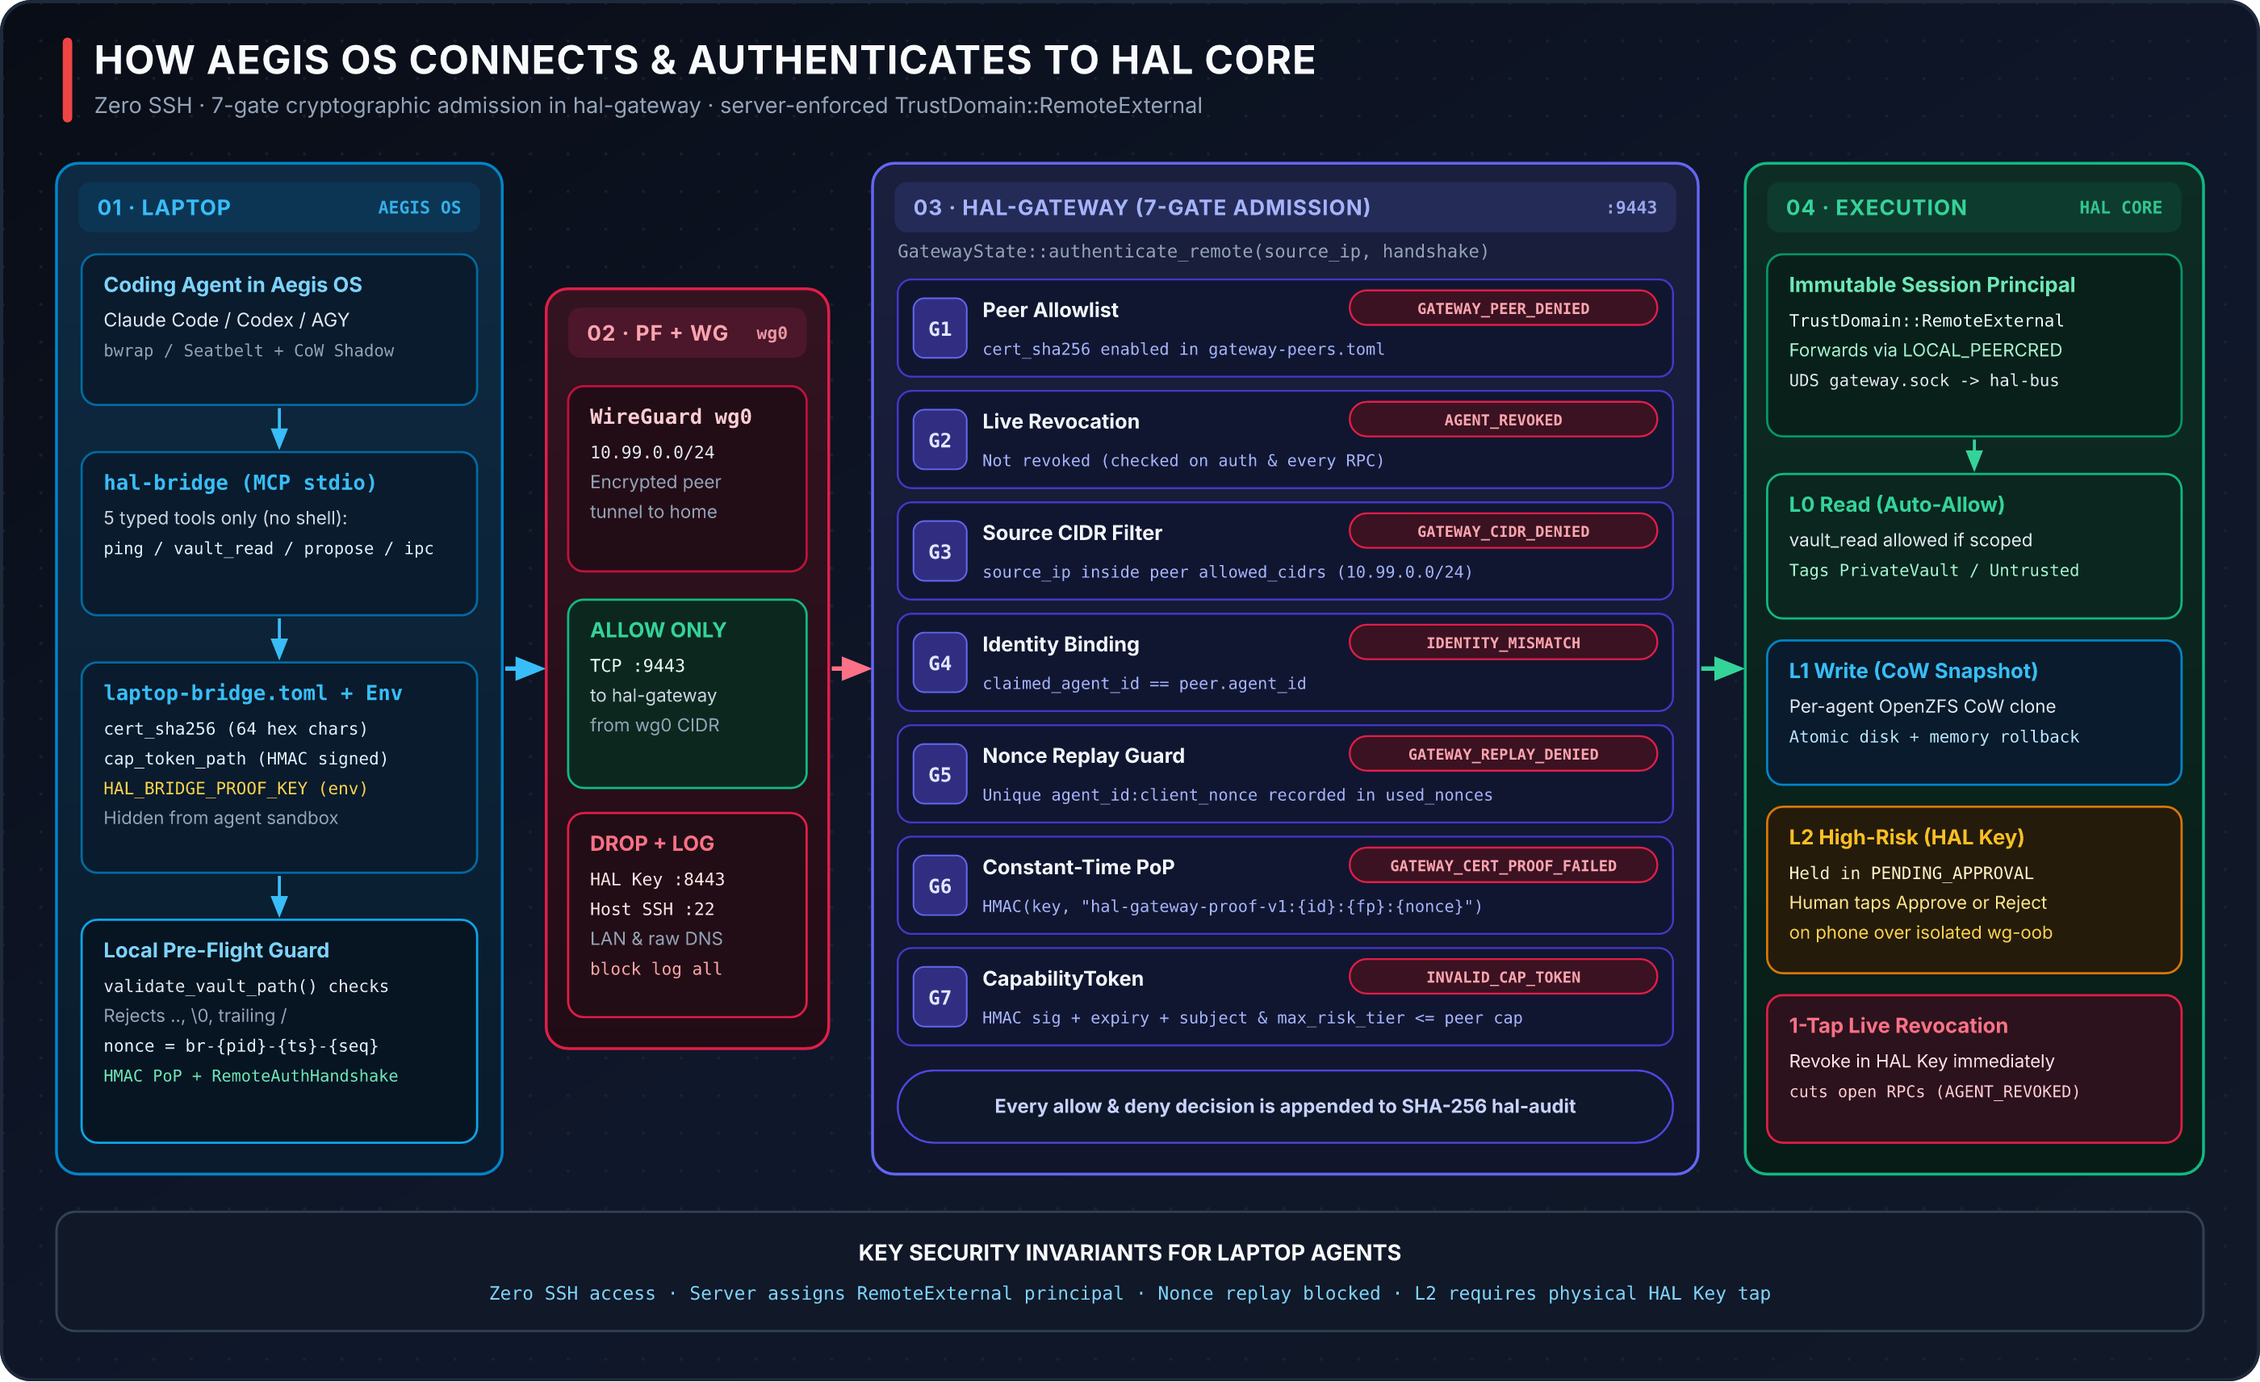
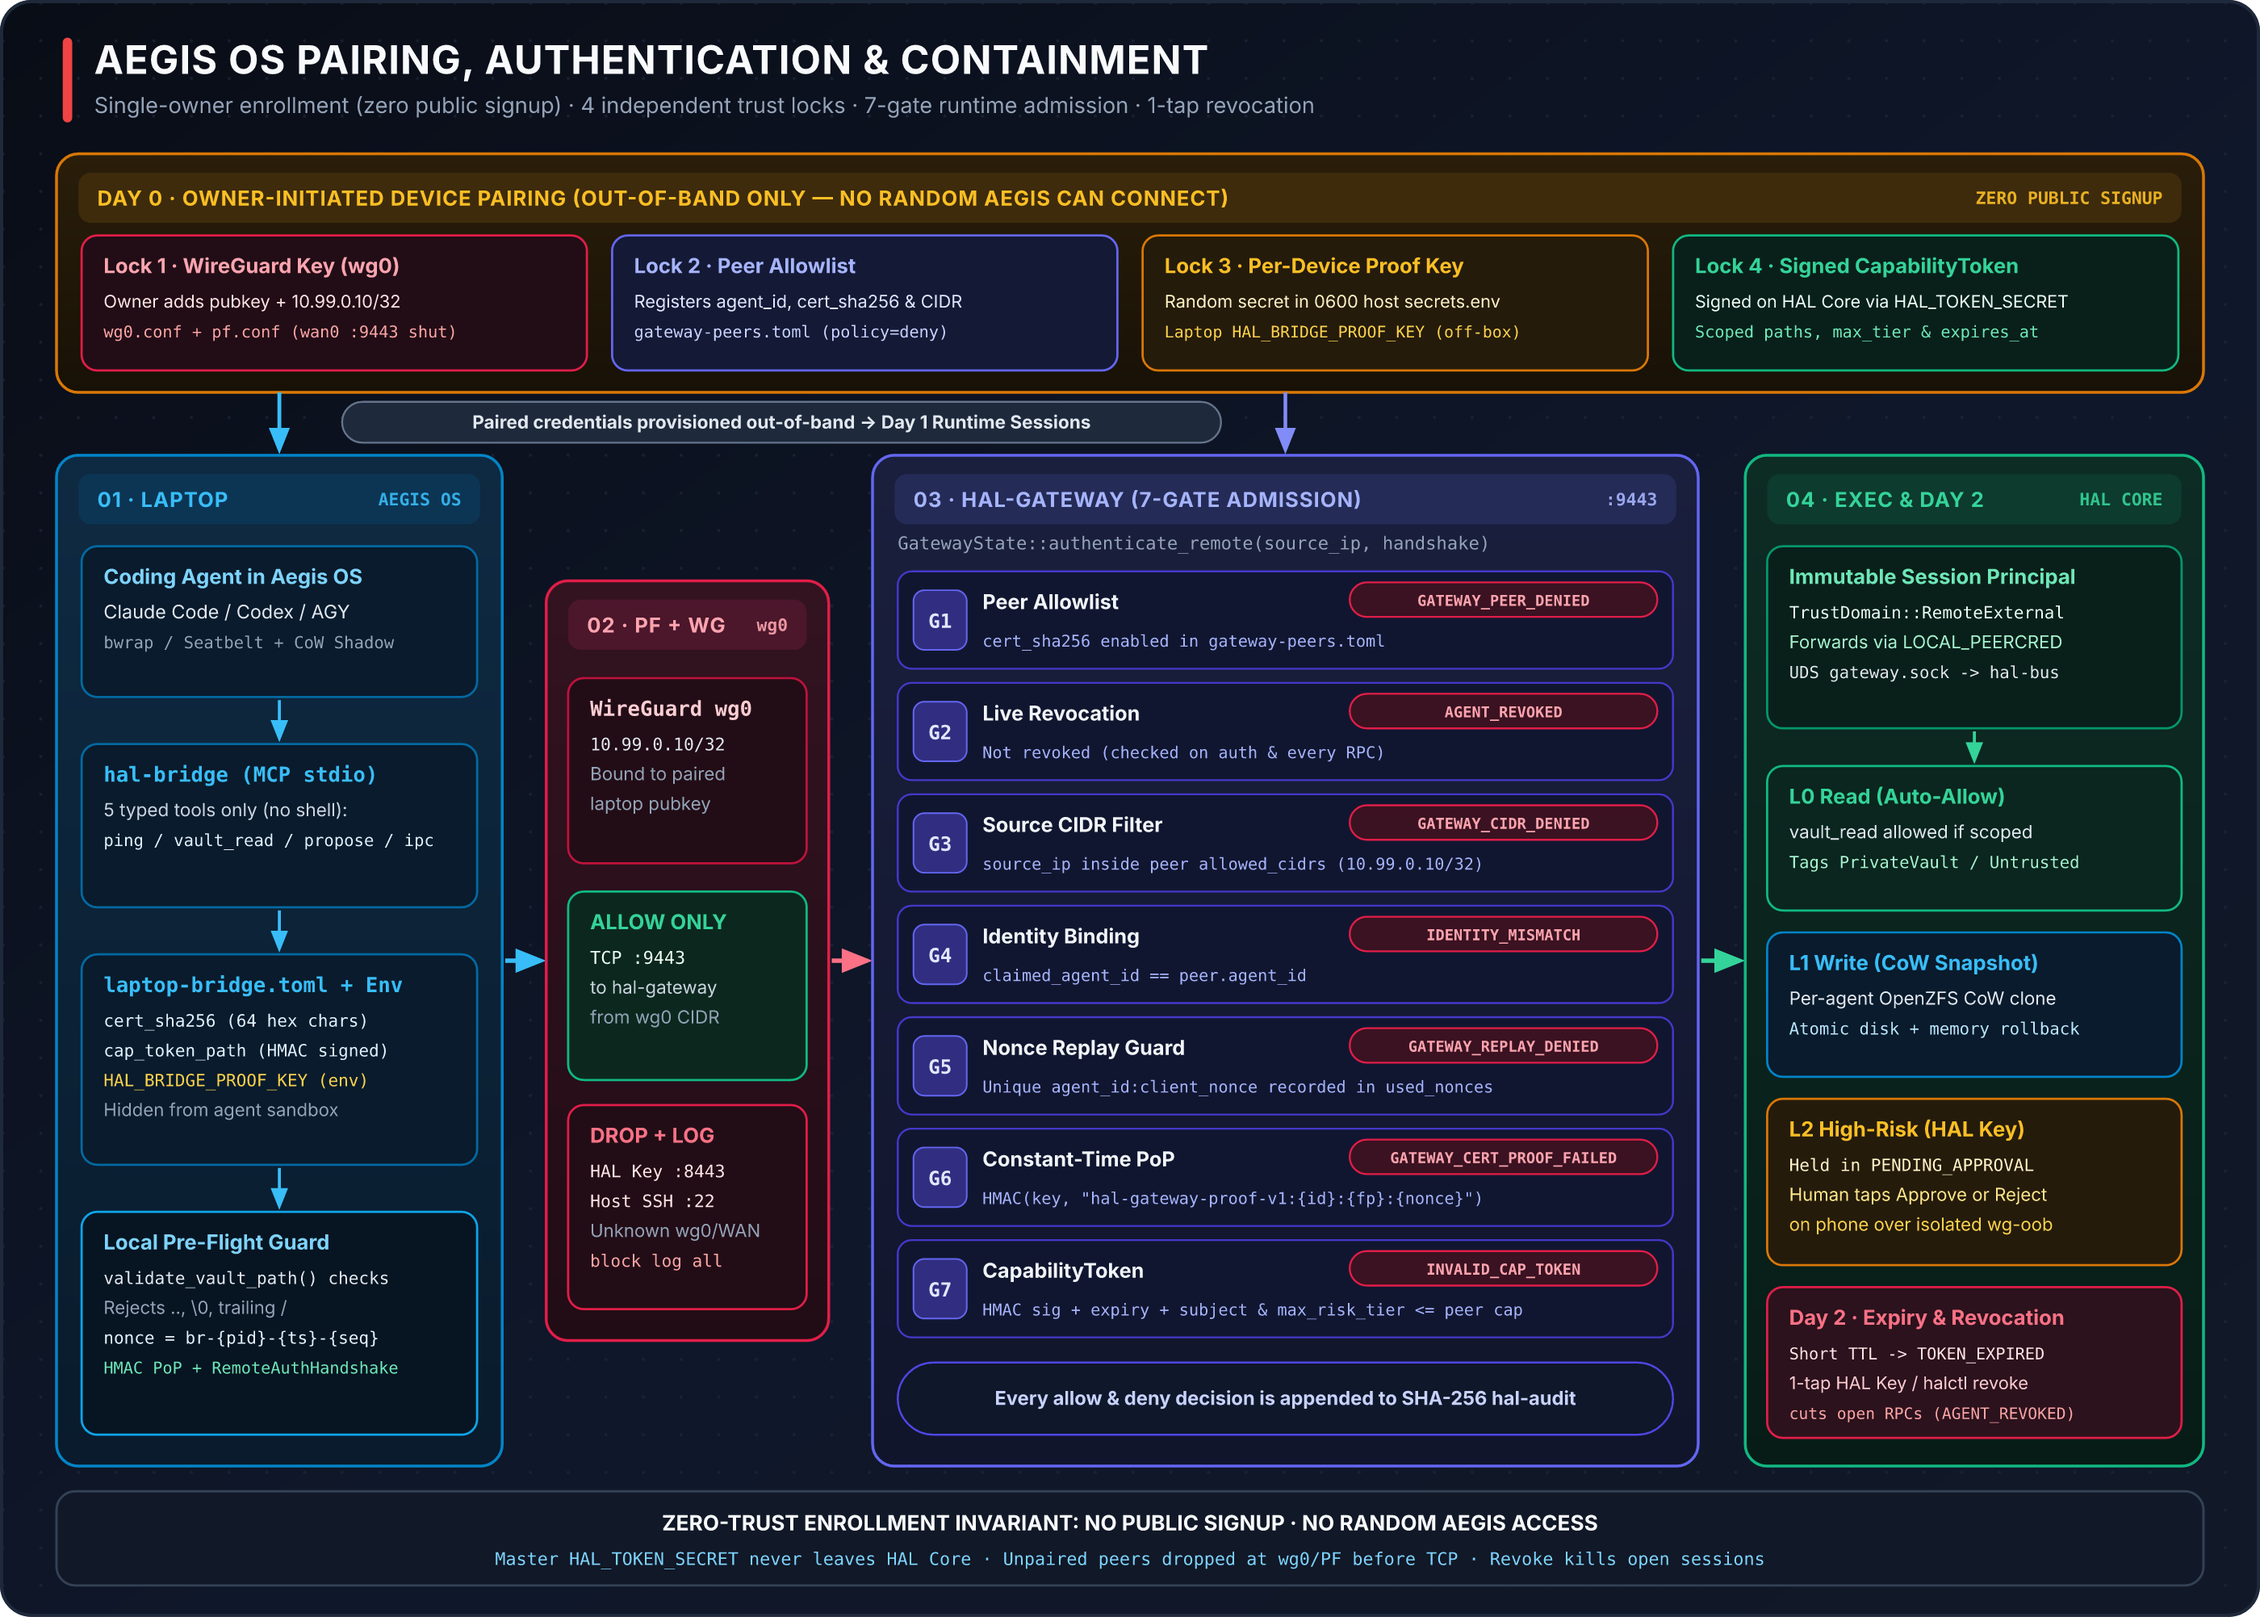
docs(readme): document Day-0/1/2 Aegis OS pairing, enrollment, and auth lifecycle with updated HD diagram

diff --git a/README.md b/README.md
@@ -24,7 +24,7 @@
   <a href="#why-hal-core">Why HAL Core?</a> ·
   <a href="#try-it-in-60-seconds">Try It in 60s</a> ·
   <a href="#how-it-works-the-tri-node-loop">How It Works</a> ·
-  <a href="#connecting-aegis-os-auth-and-security">Aegis OS Auth</a> ·
+  <a href="#connecting-aegis-os-pairing-auth-and-security">Aegis OS Pairing &amp; Auth</a> ·
   <a href="#how-hal-core-relates-to-freebsd-14">HAL Core &amp; FreeBSD 14</a> ·
   <a href="#security-guarantees">Security Guarantees</a> ·
   <a href="#documentation">Docs</a>
@@ -81,44 +81,54 @@ Instead of forcing one OS onto every device, each node owns one tightly scoped r
 
 ---
 
-## Connecting Aegis OS (Auth and Security)
+## Connecting Aegis OS: Pairing, Auth, and Security
+
+> **Not just any Aegis OS can connect to your HAL Core.** HAL Core is a single-owner personal fortress with **zero public signup, zero self-registration API, and zero inbound port on `wan0`**. A laptop can connect only after **you (the host owner)** explicitly pair it out-of-band.
 
 <p align="center">
-  <img src="./assets/diagram-aegis-auth-flow.png" alt="How Aegis OS Connects and Authenticates to HAL Core via hal-bridge and hal-gateway" width="100%" />
+  <img src="./assets/diagram-aegis-auth-flow.png" alt="Aegis OS Pairing, 7-Gate Authentication, and Containment Lifecycle in HAL Core" width="100%" />
 </p>
 
-### 1. How Aegis OS Connects (Zero SSH, 5 Typed MCP Tools)
+### Day 0 · Owner-Initiated Device Pairing (4 Independent Locks)
 
-On your laptop, the coding agent (`Antigravity`, `Claude Code`, or `Codex`) stays confined inside Aegis OS (`bwrap` / Seatbelt + CoW Shadow) and registers `hal-bridge` as a local stdio MCP server:
+To pair **your** laptop (`Aegis OS` + `hal-bridge`) with **your** `HAL Core`, you (the host owner over `mgmt0` / console / **HAL Key**) bind four independent trust locks—missing any one rejects the connection before it can touch an internal agent or vault:
+
+| Lock | Registered on HAL Core (Owner OOB) | Provisioned on Your Laptop (`hal-bridge`) | What It Stops |
+| :--- | :--- | :--- | :--- |
+| **1 · Network Tunnel (`wg0`)** | Owner adds laptop WireGuard public key + pinned tunnel IP (`10.99.0.10/32`) in [`wg-agent.conf.example`](./config/freebsd/wg-agent.conf.example). | Laptop holds the matching WireGuard private key & `HAL Core` server public key. | [`pf.conf`](./config/freebsd/pf.conf) enforces `block log all` and never exposes `:9443` on `wan0`; unpaired machines cannot even complete a WireGuard/TCP handshake. |
+| **2 · Peer Allowlist** | Owner registers `agent_id`, 64-hex `cert_sha256`, `allowed_cidrs` (`10.99.0.10/32`), and `max_risk_tier` in [`gateway-peers.toml`](./config/policy/gateway-peers.toml). | Written into `agent_id` & `cert_sha256` inside [`laptop-bridge.example.toml`](./config/bridge/laptop-bridge.example.toml). | `default_policy = "deny"`; unlisted peers or wrong source IPs are rejected (`GATEWAY_PEER_DENIED` / `GATEWAY_CIDR_DENIED`). |
+| **3 · Per-Device Proof Key** | Random secret stored in host `0600` `secrets.env` (see [`phase5b-deploy.sh`](./vm/freebsd/phase5b-deploy.sh)), loaded via `--peer-key-env`. | Injected into laptop `HAL_BRIDGE_PROOF_KEY` env **for `hal-bridge` only** (never shared inside the coding agent sandbox). | Stops `cert_sha256` spoofing: every handshake requires an `HMAC-SHA256` proof over a fresh one-time nonce. |
+| **4 · Short-Lived `CapabilityToken`** | Signed offline **on HAL Core** using master `HAL_TOKEN_SECRET` (which never leaves the fortress), binding paths, ops, ceiling & TTL. | Copied as `cap_token_path` JSON (e.g., `remote-laptop-01.cap.json`) to the laptop. | Bounds blast radius & lifetime (`expires_at_ms`): a stolen token expires and cannot self-escalate. |
+
+*Today, Day-0 enrollment is provisioned out-of-band via the files above (while `hal-bridge demo` auto-generates a local test bundle for trying it out); one-command pairing (`halctl peer enroll` / `halctl token mint` + `hal-bridge pair`) is the next planned milestone ([Phase 5C](#under-the-hood--status)).*
+
+### Day 1 · Runtime Connection &amp; 7-Gate Admission (`RemoteAuthHandshake`)
+
+On your laptop, coding agents (`Antigravity`, `Claude Code`, or `Codex`) stay confined inside Aegis OS (`bwrap` / Seatbelt + CoW Shadow) and see only `hal-bridge` over local stdio MCP (zero SSH shell, zero raw API keys):
 
 ```bash
 export HAL_BRIDGE_PROOF_KEY="<shared-or-mtls-derived-proof-key>"
 hal-bridge --config config/bridge/laptop-bridge.example.toml mcp
 ```
 
-- **Local MCP Only**: The laptop agent never gets an SSH shell or raw socket—only JSON-RPC 2.0 tools (`hal_ping`, `hal_vault_read`, `hal_propose_action`, `hal_send_ipc`, `hal_publish_event`).
-- **Network Tunnel (`wg-agent`)**: `hal-bridge` dials `gateway_addr` (`10.99.0.1:9443`) over the dedicated `wg0` WireGuard interface configured by [`config/bridge/laptop-bridge.example.toml`](./config/bridge/laptop-bridge.example.toml) and admitted against [`config/policy/gateway-peers.toml`](./config/policy/gateway-peers.toml) (`default_policy = "deny"`).
-
-### 2. 7-Gate Cryptographic Admission (`RemoteAuthHandshake`)
-
-Before any RPC is forwarded to `hal-bus`, `GatewayState::authenticate_remote` in [`crates/hal-gateway/src/server.rs`](./crates/hal-gateway/src/server.rs) and [`protocol.rs`](./crates/hal-gateway/src/protocol.rs) enforces seven mandatory gates in sequence:
+`hal-bridge` dials `10.99.0.1:9443` over `wg0` and exposes strictly 5 typed tools (`hal_ping`, `hal_vault_read`, `hal_propose_action`, `hal_send_ipc`, `hal_publish_event`). Before forwarding any RPC to `hal-bus`, `GatewayState::authenticate_remote` in [`crates/hal-gateway/src/server.rs`](./crates/hal-gateway/src/server.rs) and [`protocol.rs`](./crates/hal-gateway/src/protocol.rs) enforces seven mandatory gates:
 
 | Gate | Check Enforced by `hal-gateway` | Failure Code |
 | :--- | :--- | :--- |
 | **G1 · Peer Allowlist** | `cert_sha256` (64 lowercase hex chars) must match an enabled `[[peers]]` entry in `gateway-peers.toml`. | `GATEWAY_PEER_DENIED` |
 | **G2 · Live Revocation** | Rejects revoked remote agents during handshake **and** before every subsequent RPC on an already-open TCP connection. | `AGENT_REVOKED` |
-| **G3 · Source CIDR** | Connecting TCP peer IP must fall inside the peer's `allowed_cidrs` (`10.99.0.0/24`). | `GATEWAY_CIDR_DENIED` |
+| **G3 · Source CIDR** | Connecting TCP peer IP must fall inside the peer's `allowed_cidrs` (`10.99.0.10/32`). | `GATEWAY_CIDR_DENIED` |
 | **G4 · Identity Binding** | `handshake.claimed_agent_id` must match the allowlisted certificate subject (`peer.agent_id`). | `IDENTITY_MISMATCH` |
 | **G5 · Nonce Replay Defense** | Rejects empty nonces or any reused `agent_id:client_nonce` pair tracked in `used_nonces`. | `GATEWAY_REPLAY_DENIED` |
 | **G6 · Proof-of-Possession** | Constant-time `HMAC-SHA256` verification over `"hal-gateway-proof-v1:{id}:{cert_sha256}:{nonce}"` using the registered peer proof key. | `GATEWAY_CERT_PROOF_FAILED` |
-| **G7 · Capability Token & Ceiling** | Verifies signed `CapabilityToken` HMAC, expiration (`expires_at_ms > now_ms`), matching subject, and `token.max_risk_tier <= peer.max_risk_tier`. | `INVALID_CAP_TOKEN` / `TOKEN_EXPIRED` / `RISK_TIER_DENIED` |
+| **G7 · Capability Token &amp; Ceiling** | Verifies signed `CapabilityToken` HMAC, expiration (`expires_at_ms > now_ms`), matching subject, and `token.max_risk_tier <= peer.max_risk_tier`. | `INVALID_CAP_TOKEN` / `TOKEN_EXPIRED` / `RISK_TIER_DENIED` |
 
-### 3. Why a Prompt-Injected Laptop Agent Still Cannot Break HAL Core
+### Containment &amp; Day 2 · Expiry, Renewal, and 1-Tap Revocation
 
-- **Client Pre-Flight & Automatic Tainting**: `validate_vault_path()` in [`crates/hal-bridge/src/client.rs`](./crates/hal-bridge/src/client.rs) blocks path traversal (`..`, `\0`, empty segments, non-`/vault/` paths), while any event published from the laptop is forcibly tagged `TrustLevel::UntrustedExternal` + `TaintTag::UntrustedMsg`.
-- **Firewall & Identity Confinement**: FreeBSD [`config/freebsd/pf.conf`](./config/freebsd/pf.conf) limits `wg0` (`10.99.0.0/24`) strictly to TCP port `9443`—making `mgmt0` / `wg-oob` (**HAL Key** `:8443`) and SSH (`:22`) unreachable—while `hal-gateway` binds the authenticated session server-side to an immutable `AgentPrincipal` (`TrustDomain::RemoteExternal`) over `LOCAL_PEERCRED`-verified `gateway.sock`.
+- **Client Pre-Flight &amp; Automatic Tainting**: `validate_vault_path()` in [`crates/hal-bridge/src/client.rs`](./crates/hal-bridge/src/client.rs) blocks path traversal (`..`, `\0`, empty segments, non-`/vault/` paths), while any event published from the laptop is forcibly tagged `TrustLevel::UntrustedExternal` + `TaintTag::UntrustedMsg`.
+- **Firewall &amp; Identity Confinement**: FreeBSD [`config/freebsd/pf.conf`](./config/freebsd/pf.conf) limits `wg0` strictly to TCP `:9443`—making `mgmt0` / `wg-oob` (**HAL Key** `:8443`) and SSH (`:22`) unreachable—while `hal-gateway` binds the session server-side to an immutable `AgentPrincipal` (`TrustDomain::RemoteExternal`) over `LOCAL_PEERCRED`-verified `gateway.sock`.
 - **Human-Gated `L2` + Immutable Audit**: Remote agents cannot bypass `L2` approval (`PENDING_APPROVAL` waits for a human tap on **HAL Key**), and every allow/deny decision is written to the SHA-256 `hal-audit` chain.
-- **1-Tap Live Revocation**: Revoking `remote-laptop-01` in **HAL Key** (`POST /api/v1/agents/{id}/revoke`) immediately severs active sessions on their very next RPC (`AGENT_REVOKED`).
+- **Short-Lived Expiry &amp; 1-Tap Live Revocation**: Tokens expire automatically (`TOKEN_EXPIRED`) until renewed by the owner. Revoking `remote-laptop-01` via **HAL Key** (`POST /api/v1/agents/{id}/revoke`) or `halctl agent revoke` ([`halctl.rs`](./crates/hal-oob/src/bin/halctl.rs)) severs even already-open TCP sessions on the very next RPC (`AGENT_REVOKED`), and removing its `wg0.conf` / `gateway-peers.toml` entries completes permanent de-enrollment.
 
 ---
 
@@ -223,6 +233,7 @@ hal-core/
 - [x] **Phase 4 — Cognitive Runtime & Red-Team Drills**: `hal-brain`, `adapter-vault`, `adapter-work`, and all 4 flagship red-team drills.
 - [x] **Phase 5A — Tri-Node Loop**: Embedded **HAL Key** Mobile PWA in `hal-oob`, laptop crate `hal-bridge` (MCP stdio + demo cluster), and E2E tests.
 - [x] **Phase 5B — Multi-Process Daemons, HTTPS/LLM Broker & `adapter-digest`**: Real `--serve` daemon loops across `hal-bus`/`hal-gateway`/`hal-oob`/`hal-watchdog`, `CurlHttpsTransport`, OpenAI-compatible planner, `adapter-digest`, FreeBSD `rc.d/hal_core`, dual-WireGuard `pf.conf`, and `vm/freebsd/phase5b-deploy.sh` (`65/65` tests green).
+- [ ] **Phase 5C — One-Command Device Pairing & Token Renewal**: `halctl peer enroll` / `halctl token mint` + `hal-bridge pair` to replace manual Day-0 OOB file provisioning.
 - [ ] **Phase 6 — Hardware Adapters (`adapter-mqtt`) & Appliance Image**: Real smart-home MQTT/Matter adapter and unattended FreeBSD 14.5 appliance VM image builder.
 
 </details>
